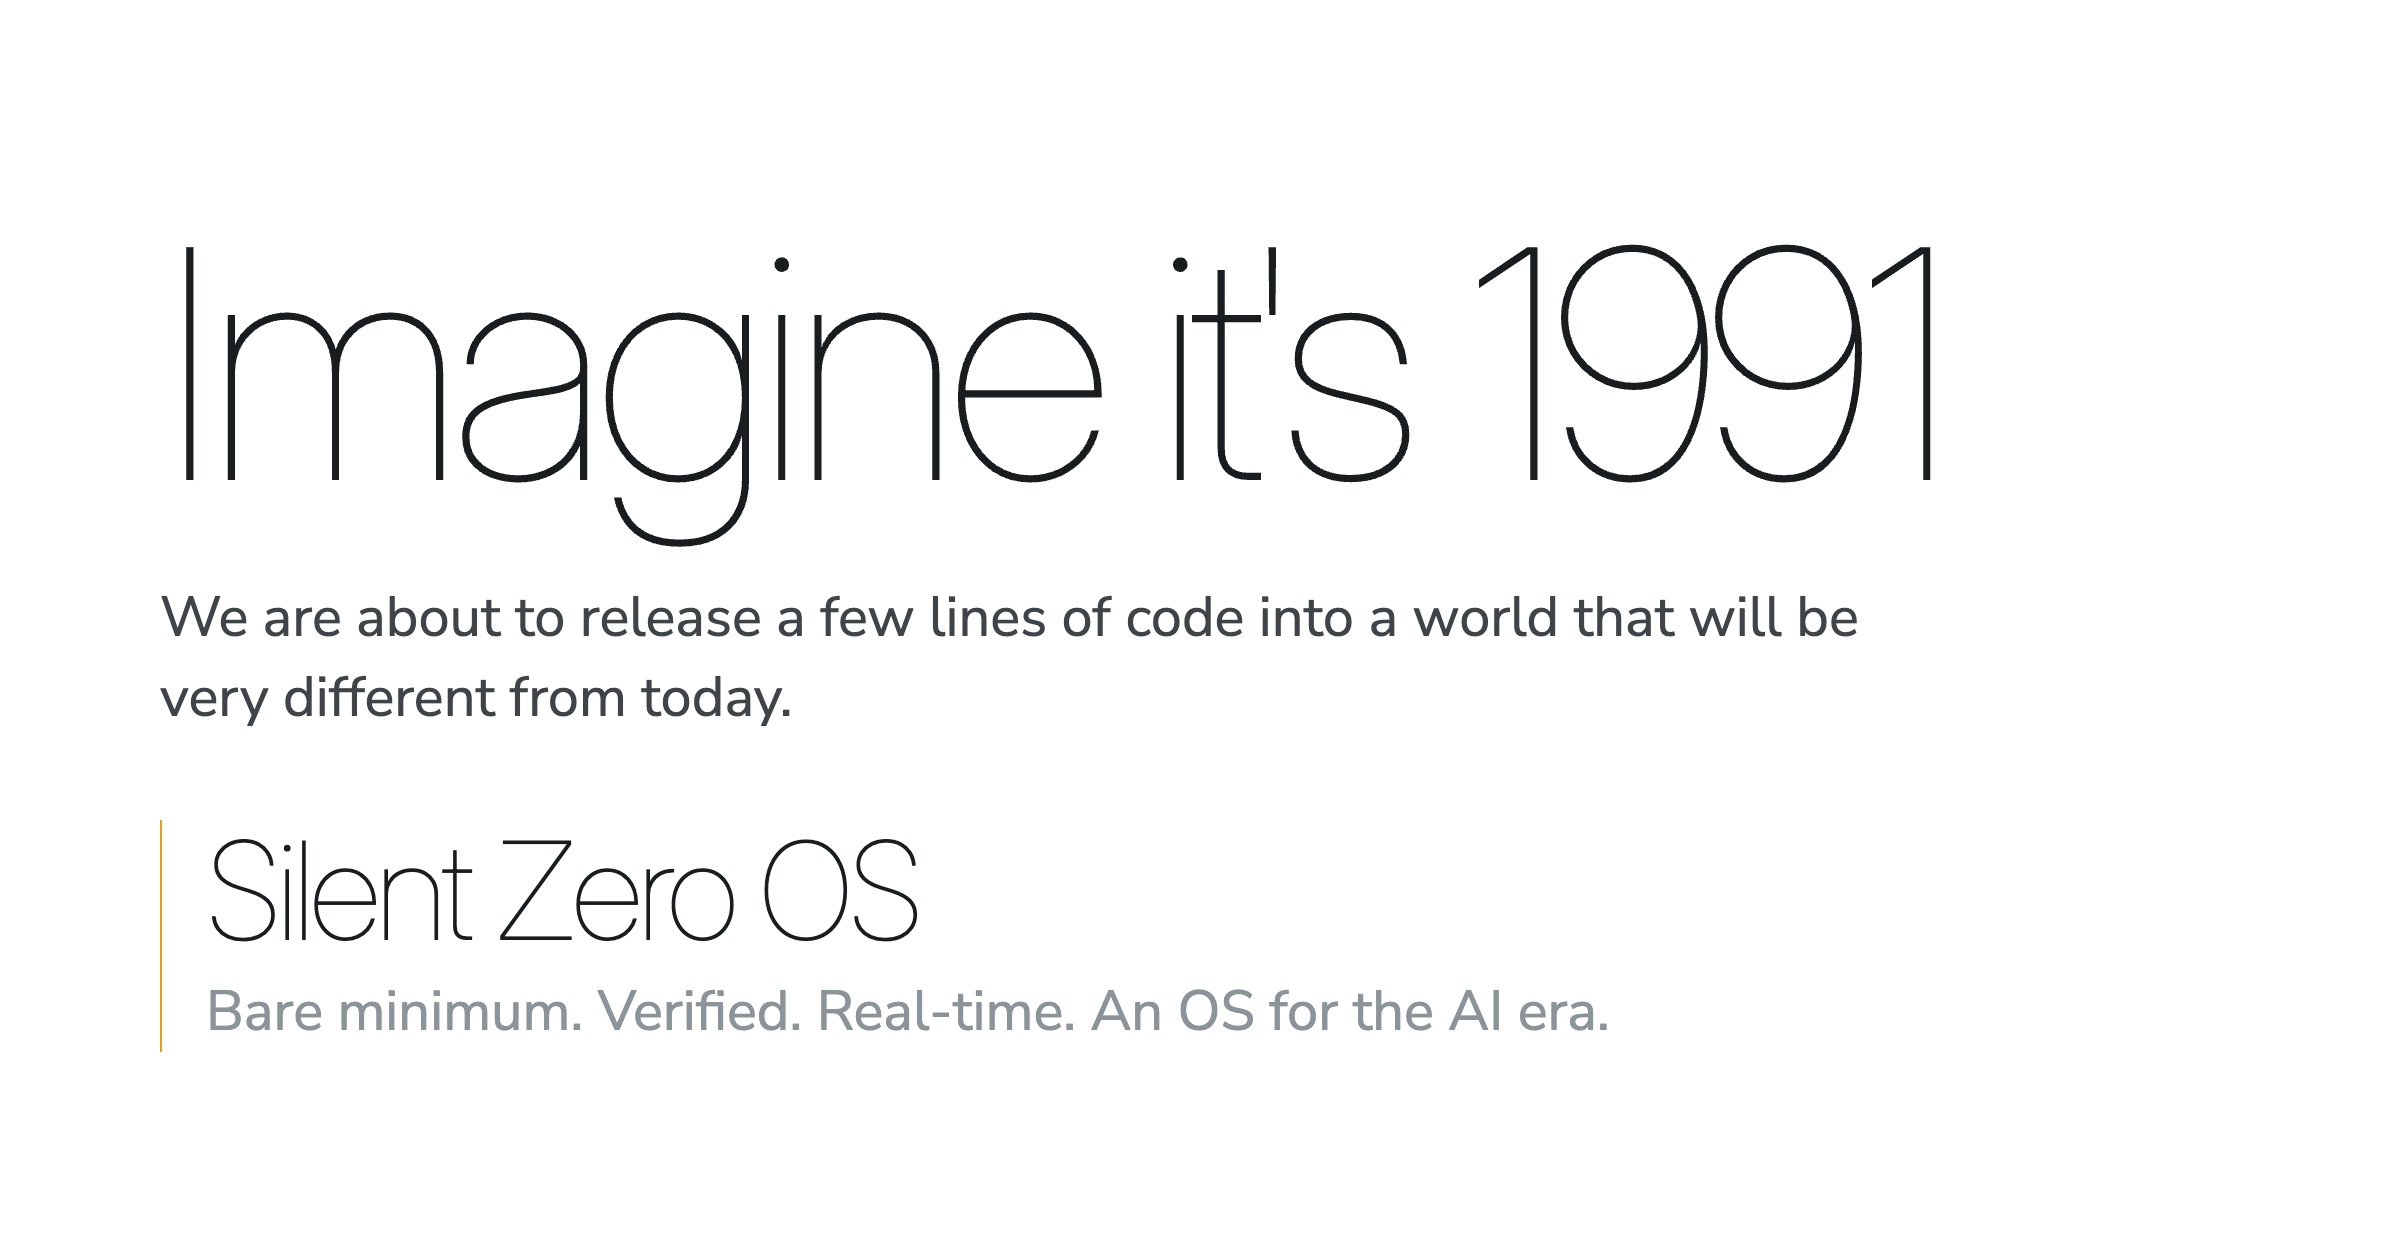
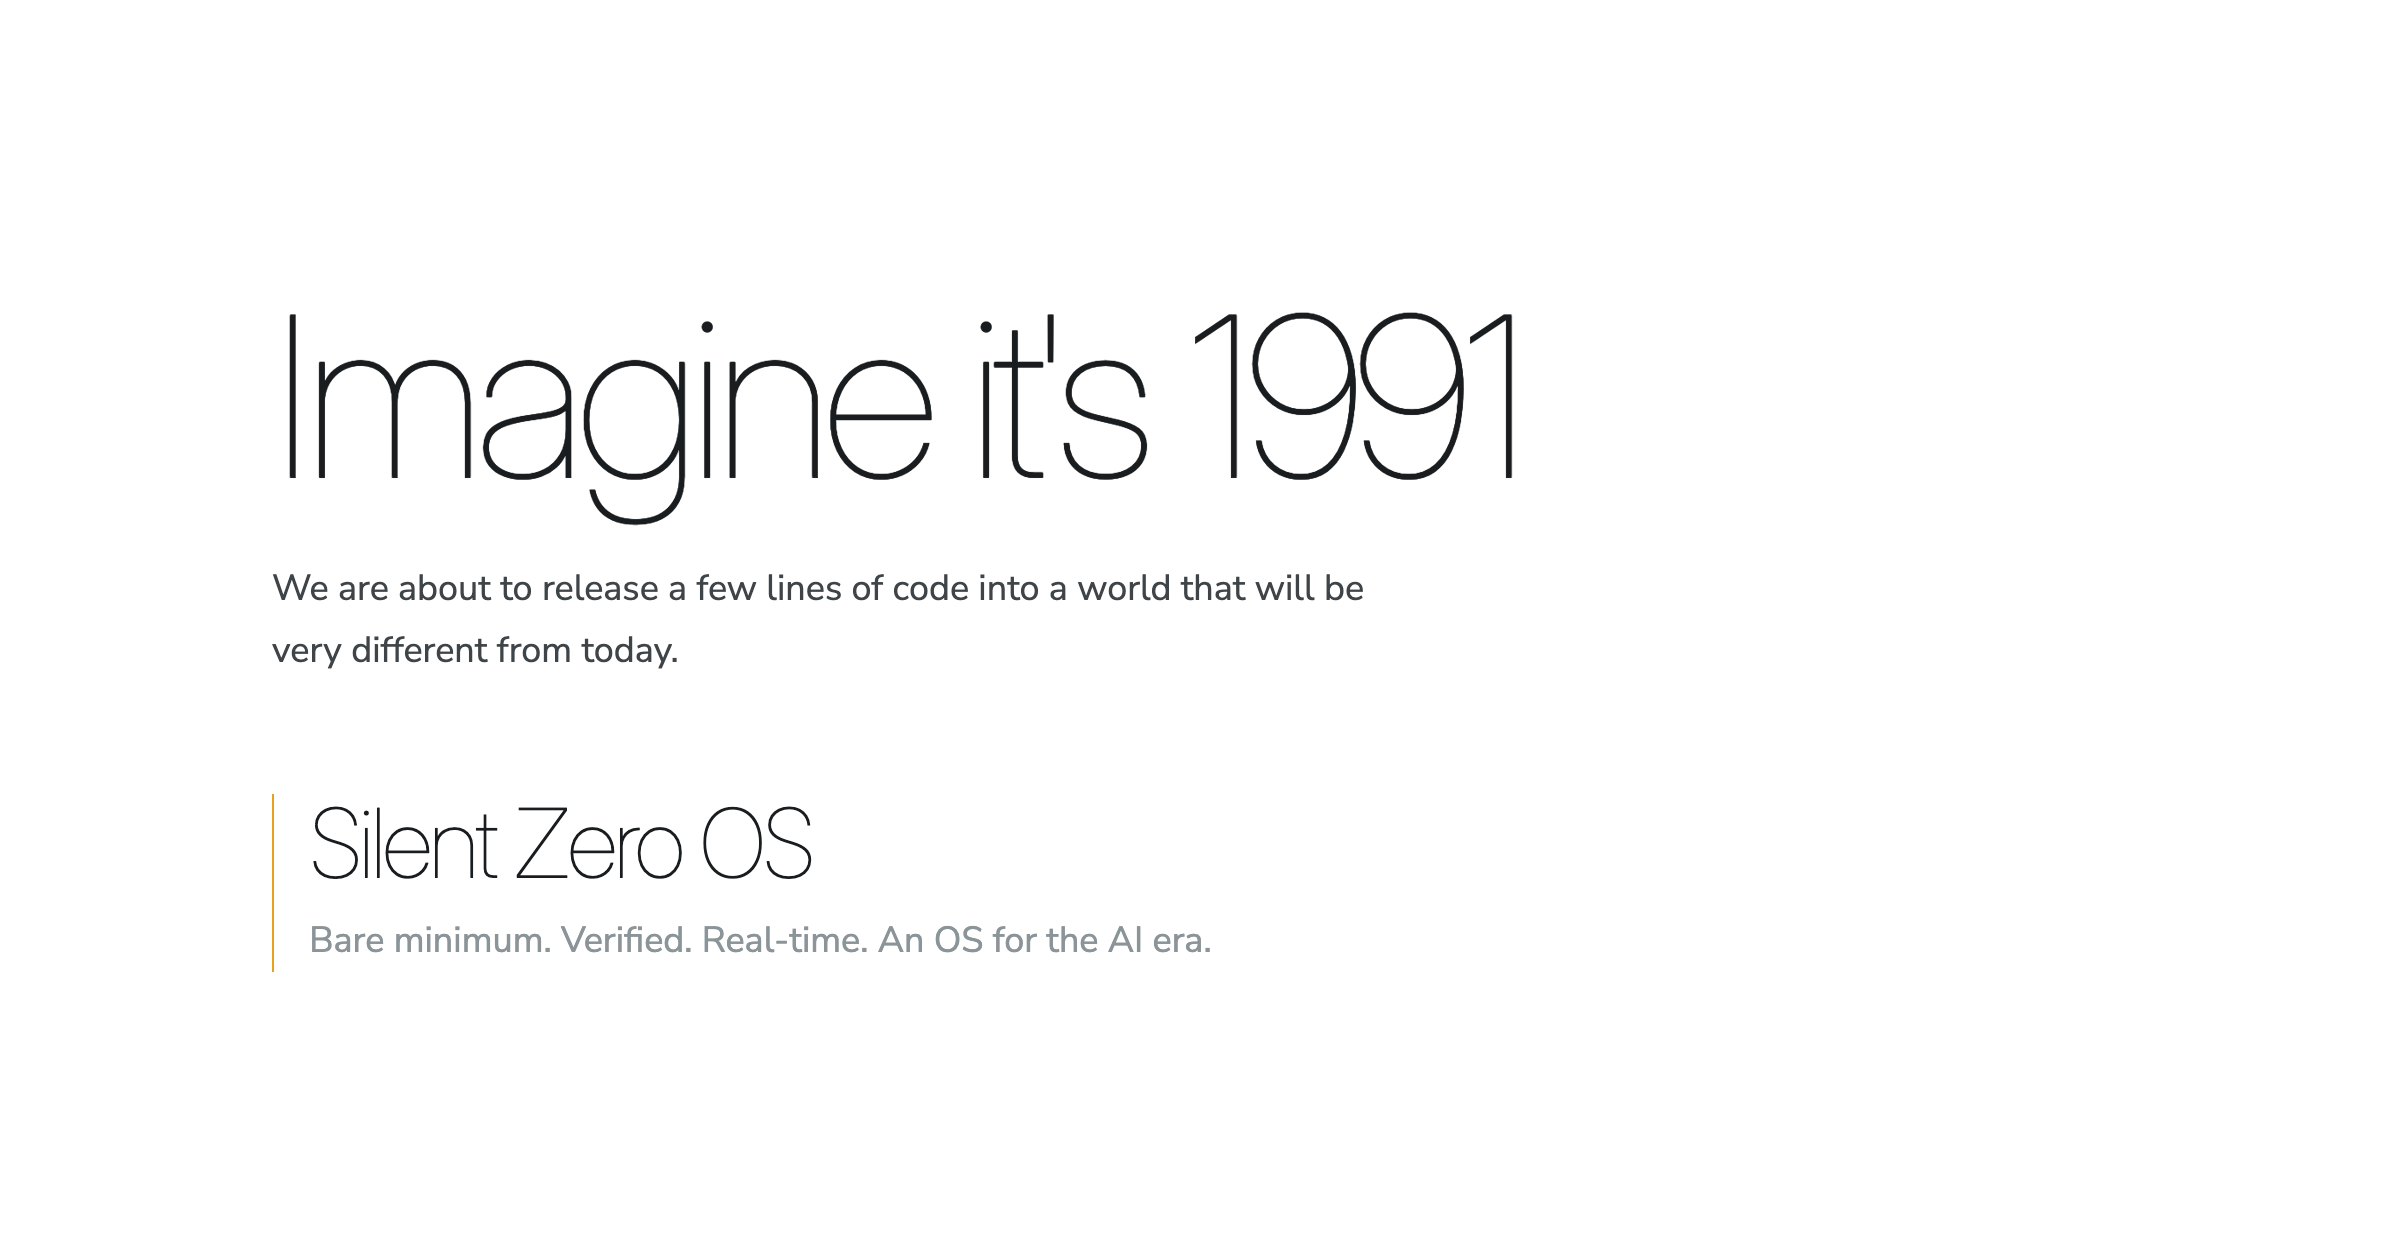
Site: the preview shows the header at its own size, nothing scaled up

diff --git a/paper/ogshot.py b/paper/ogshot.py
@@ -1,6 +1,7 @@
 # SPDX-License-Identifier: BSD-2-Clause
 """Screenshots the page's header into assets/og.png, the preview that social media and chats show for a link.
 Run after paper/build.sh: uv run --with playwright python paper/ogshot.py
+The header is shown at its own size, as the page draws it in a 1200 px window on a 2x screen; nothing is scaled up.
 The image leaves out the version, so it does not go stale with a new paper version."""
 from pathlib import Path
 from playwright.sync_api import sync_playwright
@@ -12,13 +13,8 @@ with sync_playwright() as p:
     pg.goto((root / "index.html").as_uri())
     pg.add_style_tag(content="""
       .langs, button.menu, .ver, .status, .actions { display: none !important; }
-      .hero { height: 630px; padding: 0 80px; border: 0; display: flex; align-items: center; }
-      .hero-inner { margin: 0; max-width: none; }
-      .hero h1 { font-size: 160px; margin-bottom: 28px; }
-      .hero .lede { font-size: 28px; line-height: 1.45; max-width: 900px; margin-bottom: 40px; hyphens: none; }
-      .titleblock { max-width: none; padding-left: 22px; }
-      .titleblock .name { font-size: 68px; margin-bottom: 6px; }
-      .titleblock .sub { font-size: 28px; line-height: 1.4; }
+      .hero { height: 630px; padding-block: 0; border: 0; display: flex; align-items: center; }
+      .hero-inner { width: 100%; }
     """)
     pg.evaluate("document.fonts.ready")
     pg.wait_for_timeout(300)
